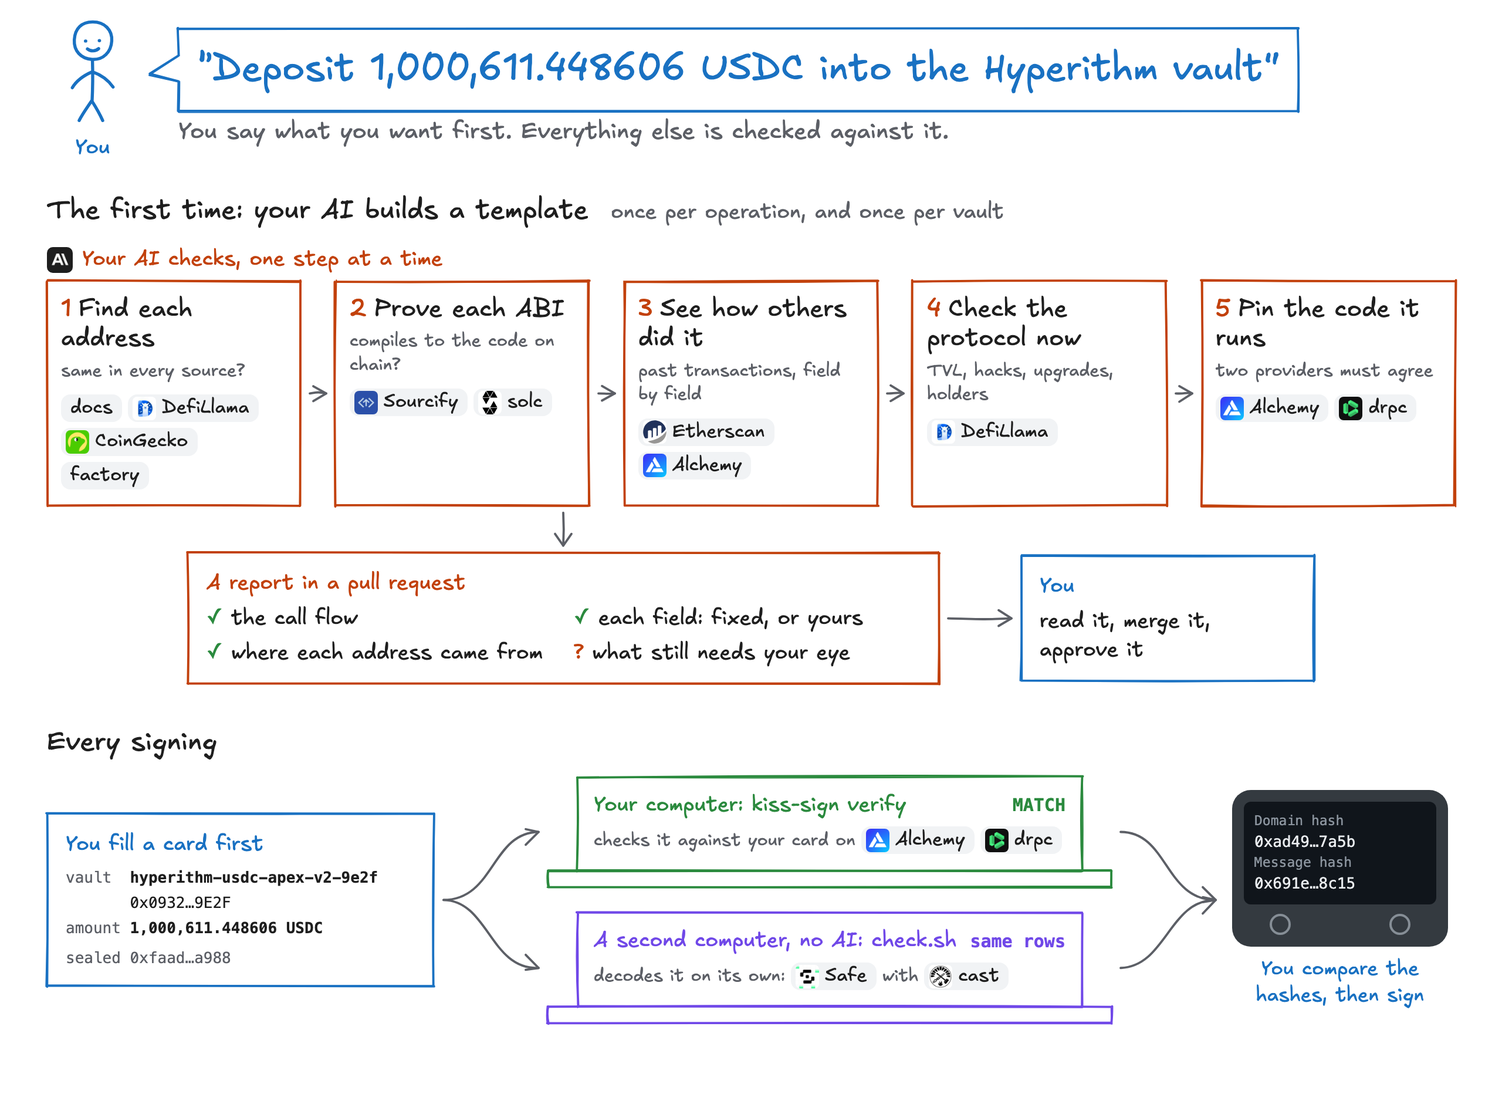
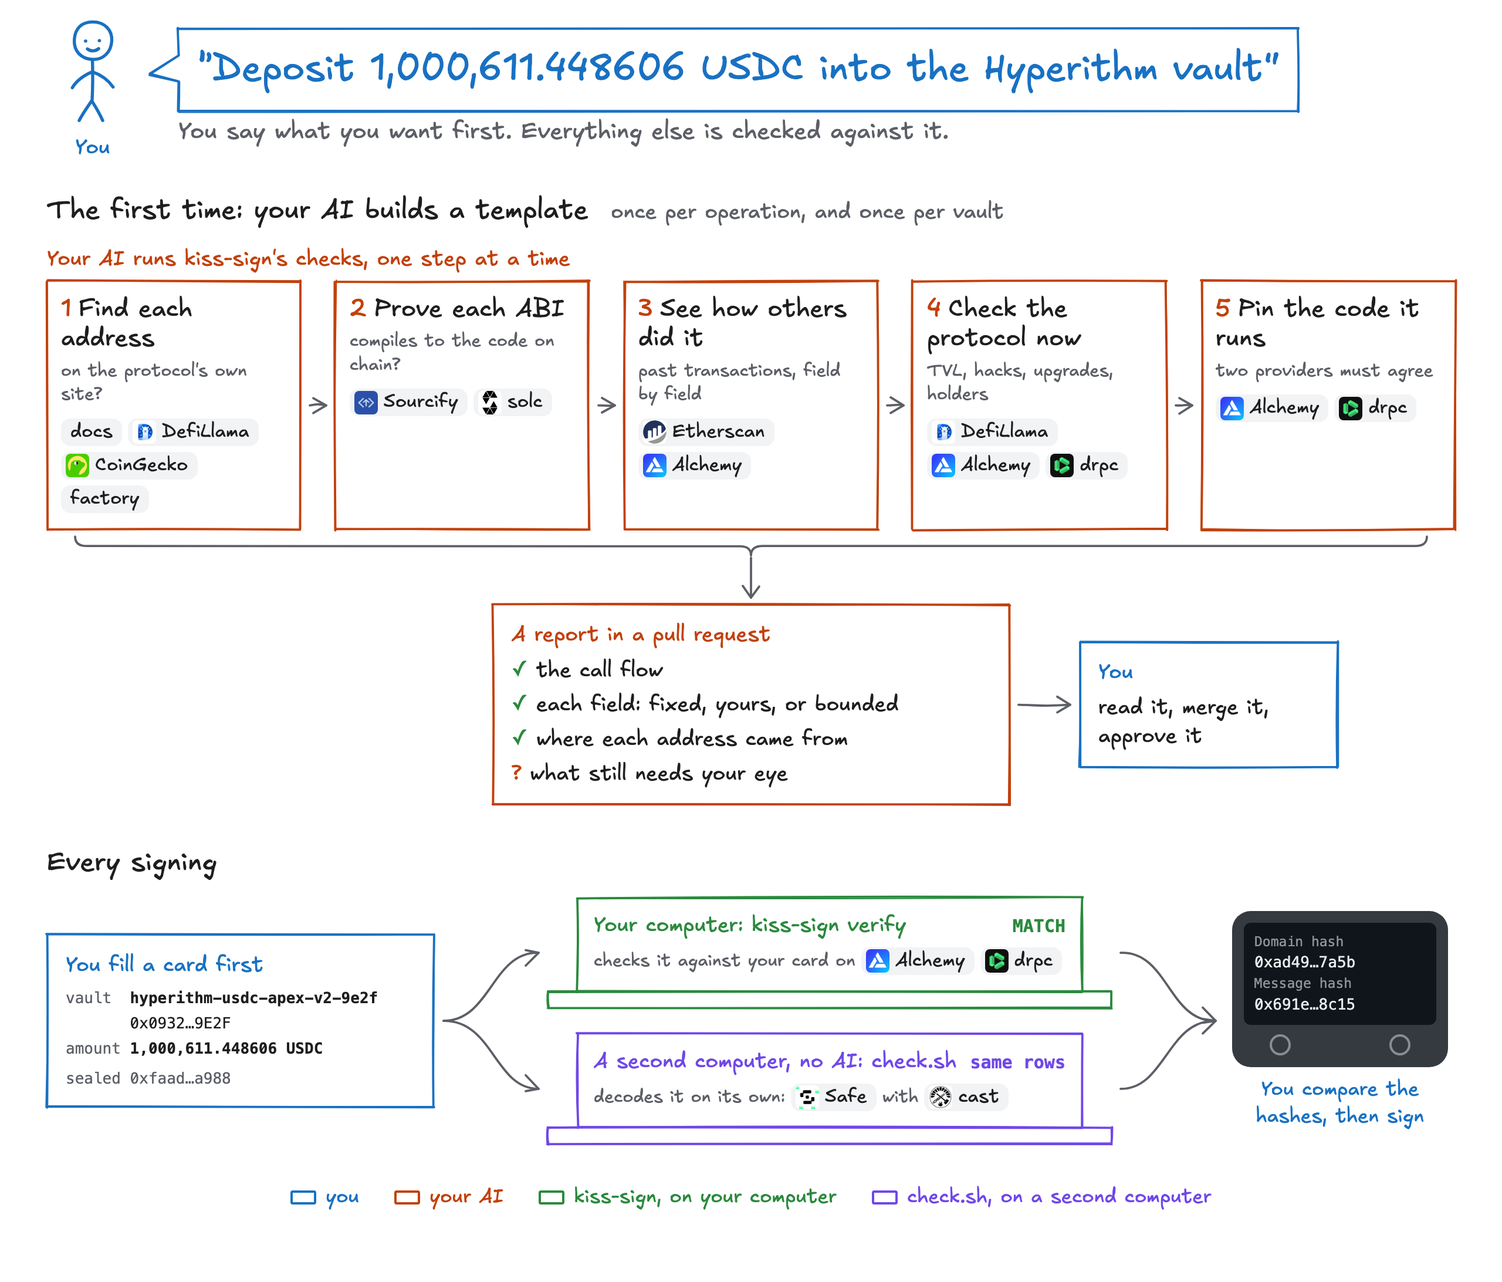
Fix the README claims the third reviews found and add a color legend; the report arrow leaves from under all five steps

diff --git a/docs/diagrams/readme-overview.html b/docs/diagrams/readme-overview.html
@@ -25,6 +25,9 @@
   .mono { font: 14px/1.5 ui-monospace, "SF Mono", Menlo, Consolas, monospace; }
   svg.sketch { position: absolute; left: 0; top: 0; pointer-events: none; overflow: visible; }
 
+  .legend { display: flex; gap: 30px; justify-content: center; margin-top: 34px; font-size: 17px; }
+  .legend span { display: flex; align-items: center; gap: 8px; color: var(--c); }
+  .legend i { width: 22px; height: 12px; border: 2px solid var(--c); border-radius: 2px; }
   .say { display: flex; align-items: center; gap: 34px; margin: 4px 0 26px; }
   .person { width: 78px; flex: none; text-align: center; color: var(--you); font-size: 18px; }
   .person svg { width: 72px; height: 94px; overflow: visible; }
@@ -50,15 +53,15 @@
   .step .t { font-size: 21px; line-height: 1.2; }
   .step .n { color: var(--ai); margin-right: 6px; }
   .step .logos { display: flex; gap: 5px; flex-wrap: wrap; margin-top: 6px; }
-  .then { display: flex; align-items: center; gap: 70px; margin: 40px 0 0 0; justify-content: center; }
+  .then { display: flex; align-items: center; gap: 60px; margin: 64px 0 0 0; padding-left: 380px; }
   .note { color: var(--muted); font-size: 15px; }
 
-  .report { width: 640px; }
-  .report ul { list-style: none; display: grid; grid-template-columns: 1fr 1fr; gap: 5px 18px; font-size: 18px; }
+  .report { width: 440px; }
+  .report ul { list-style: none; display: grid; grid-template-columns: 1fr; gap: 5px; font-size: 18px; }
   .report li::before { content: "✓ "; color: var(--prog); }
   .report li.q::before { content: "? "; color: var(--ai); }
 
-  .merge { width: 250px; font-size: 18px; }
+  .merge { width: 220px; font-size: 18px; }
 
   .card { width: 330px; }
   .card .mono { font-size: 13px; }
@@ -104,19 +107,19 @@
 
   <h2>The first time: your AI builds a template <b>once per operation, and once per vault</b></h2>
   <div class="chain ai" id="chain">
-    <div class="who"><img src="logos/anthropic.png" alt="">Your AI checks, one step at a time</div>
+    <div class="who">Your AI runs kiss-sign's checks, one step at a time</div>
     <div class="steps">
-      <div class="sk step" id="s1"><div class="t"><span class="n">1</span>Find each address</div><div class="note">same in every source?</div><div class="logos"><span class="lg plain">docs</span><span class="lg"><img src="logos/defillama.jpg" alt="">DefiLlama</span><span class="lg"><img src="logos/coingecko.png" alt="">CoinGecko</span><span class="lg plain">factory</span></div></div>
+      <div class="sk step" id="s1"><div class="t"><span class="n">1</span>Find each address</div><div class="note">on the protocol's own site?</div><div class="logos"><span class="lg plain">docs</span><span class="lg"><img src="logos/defillama.jpg" alt="">DefiLlama</span><span class="lg"><img src="logos/coingecko.png" alt="">CoinGecko</span><span class="lg plain">factory</span></div></div>
       <div class="sk step" id="s2"><div class="t"><span class="n">2</span>Prove each ABI</div><div class="note">compiles to the code on chain?</div><div class="logos"><span class="lg"><img src="logos/sourcify.jpg" alt="">Sourcify</span><span class="lg"><img class="mono-logo" src="logos/solidity.svg" alt="">solc</span></div></div>
       <div class="sk step" id="s3"><div class="t"><span class="n">3</span>See how others did it</div><div class="note">past transactions, field by field</div><div class="logos"><span class="lg"><img src="logos/etherscan.svg" alt="">Etherscan</span><span class="lg"><img src="logos/alchemy.png" alt="">Alchemy</span></div></div>
-      <div class="sk step" id="s4"><div class="t"><span class="n">4</span>Check the protocol now</div><div class="note">TVL, hacks, upgrades, holders</div><div class="logos"><span class="lg"><img src="logos/defillama.jpg" alt="">DefiLlama</span></div></div>
+      <div class="sk step" id="s4"><div class="t"><span class="n">4</span>Check the protocol now</div><div class="note">TVL, hacks, upgrades, holders</div><div class="logos"><span class="lg"><img src="logos/defillama.jpg" alt="">DefiLlama</span><span class="lg"><img src="logos/alchemy.png" alt="">Alchemy</span><span class="lg"><img src="logos/drpc.png" alt="">drpc</span></div></div>
       <div class="sk step" id="s5"><div class="t"><span class="n">5</span>Pin the code it runs</div><div class="note">two providers must agree</div><div class="logos"><span class="lg"><img src="logos/alchemy.png" alt="">Alchemy</span><span class="lg"><img src="logos/drpc.png" alt="">drpc</span></div></div>
     </div>
   </div>
   <div class="then">
     <div class="sk ai report" id="report">
       <div class="who">A report in a pull request</div>
-      <ul><li>the call flow</li><li>each field: fixed, or yours</li><li>where each address came from</li><li class="q">what still needs your eye</li></ul>
+      <ul><li>the call flow</li><li>each field: fixed, yours, or bounded</li><li>where each address came from</li><li class="q">what still needs your eye</li></ul>
     </div>
     <div class="sk you merge" id="merge">
       <div class="who">You</div>
@@ -148,6 +151,8 @@
       <p>You compare the hashes, then sign</p>
     </div>
   </div>
+
+  <div class="legend"><span class="you"><i></i>you</span><span class="ai"><i></i>your AI</span><span class="prog"><i></i>kiss-sign, on your computer</span><span class="ind"><i></i>check.sh, on a second computer</span></div>
 
 <script>
 Promise.all([document.fonts.ready, new Promise((ok) => (document.readyState === 'complete' ? ok() : addEventListener('load', ok)))]).then(() => {
@@ -189,14 +194,15 @@ Promise.all([document.fonts.ready, new Promise((ok) => (document.readyState === 
     const dy = (y2 - y1) * 0.08, s = 11;
     draw(`M${x2 - s} ${y2 - s * 0.6 - dy + rnd()} L${x2} ${y2} L${x2 - s} ${y2 + s * 0.6 - dy + rnd()}`, ink, 1.9);
   };
-  const down = (a, b) => {
-    const ra = document.getElementById(a).getBoundingClientRect(), rb = document.getElementById(b).getBoundingClientRect();
-    const x = rb.left + rb.width / 2 + scrollX, y1 = ra.bottom + 6 + scrollY, y2 = rb.top - 6 + scrollY;
-    draw(`M${x} ${y1} Q${x + rnd() * 4} ${(y1 + y2) / 2} ${x} ${y2}`, ink, 1.9);
-    draw(`M${x - 7} ${y2 - 10 + rnd()} L${x} ${y2} L${x + 7} ${y2 - 10 + rnd()}`, ink, 1.9);
-  };
   [['s1', 's2'], ['s2', 's3'], ['s3', 's4'], ['s4', 's5'], ['report', 'merge']].forEach(([a, b]) => arrow(a, b));
-  down('chain', 'report');
+  {
+    const steps = document.querySelector('.steps').getBoundingClientRect(), rb = document.getElementById('report').getBoundingClientRect();
+    const y = steps.bottom + 14 + scrollY, l = steps.left + 24 + scrollX, r = steps.right - 24 + scrollX, mid = (l + r) / 2;
+    draw(`M${l} ${y - 8} Q${l} ${y} ${l + 10} ${y} L${mid - 10} ${y + rnd()} Q${mid} ${y} ${mid} ${y + 8} Q${mid} ${y} ${mid + 10} ${y} L${r - 10} ${y + rnd()} Q${r} ${y} ${r} ${y - 8}`, ink, 1.9);
+    const x2 = rb.left + rb.width / 2 + scrollX, y2 = rb.top - 6 + scrollY;
+    draw(`M${mid} ${y + 10} C${mid} ${y + 30}, ${x2} ${y2 - 24}, ${x2} ${y2}`, ink, 1.9);
+    draw(`M${x2 - 7} ${y2 - 10 + rnd()} L${x2} ${y2} L${x2 + 7} ${y2 - 10 + rnd()}`, ink, 1.9);
+  }
   [ ['card', 'pc1'], ['card', 'pc2'], ['pc1', 'wallet'], ['pc2', 'wallet']].forEach(([a, b]) => arrow(a, b));
   document.body.dataset.height = Math.ceil(document.body.scrollHeight);
 });

diff --git a/README.md b/README.md
@@ -13,7 +13,7 @@ Signing tools today show you a transaction and ask whether it looks right. Your 
 
 <picture>
   <source media="(prefers-color-scheme: dark)" srcset="docs/readme/overview-dark.png">
-  <img src="docs/readme/overview.png" alt="kiss-sign at a glance. You say what you want. Once per operation, your AI checks the addresses, ABIs, past transactions, the protocol's state and the code it runs, one step at a time, writes a report, and you review and merge it. At every signing, you fill a card, kiss-sign verify checks the transaction against it on your computer, check.sh decodes the same transaction on a second computer, and you compare the hashes on your hardware wallet before signing.">
+  <img src="docs/readme/overview.png" alt="kiss-sign at a glance. You say what you want. Once per operation, your AI runs kiss-sign's checks on the addresses, ABIs, past transactions, the protocol's state and the code it runs, one step at a time, writes a report, and you review and merge it. At every signing, you fill a card, kiss-sign verify checks the transaction against it on your computer, check.sh decodes the same transaction on a second computer, and you compare the hashes on your hardware wallet before signing.">
 </picture>
 
 ## Contents
@@ -37,7 +37,7 @@ Signing tools today show you a transaction and ask whether it looks right. Your 
 ## Why
 
 - **You are responsible for the exact bytes you sign.** Today the transaction is built first and checked last. That last check is like the terms on an insurance form: everyone means to read it, and most people click sign. At Bybit in 2025, the signers saw a normal transfer in a tampered Safe web app and signed a change to the Safe itself.
-- **Checking by hand is slow and needs expertise.** Tools such as [safe-tx-hashes](https://github.com/pcaversaccio/safe-tx-hashes-util) compute the hashes your wallet should show, but the decoded method and parameters they print come from the Safe Transaction Service, and the tool itself warns: *"Always independently decode the transaction Data yourself before you sign!"* Decoding one real Morpho vault deposit yourself (another Safe's, not the one pictured below) looks like this:
+- **Checking by hand is slow and needs expertise.** Tools such as [safe-tx-hashes](https://github.com/pcaversaccio/safe-tx-hashes-util) compute the hashes your wallet should show, but the decoded method and parameters they print come from the Safe Transaction Service, and the tool itself warns: *"Always independently decode the transaction "Data" yourself before you sign!"* Decoding one real Morpho vault deposit yourself (another Safe's, not the one pictured below) looks like this:
 
   ```sh
   # 1. The Safe calls MultiSend. Its one argument is packed bytes, not ABI.
@@ -71,7 +71,7 @@ Signing tools today show you a transaction and ask whether it looks right. Your 
 
   Then the real questions start. Is `0x4A6c…0aE0` Morpho's GeneralAdapter1 or a look-alike? Is `0x7777…7777` the vault you meant? Is `1.054e15` a sane minimum of shares for 10,001 USDC? What are the 8 extra bytes after the approve? And you do all of this again for the next transaction.
 
-- **[Clear signing (ERC-7730)](https://eips.ethereum.org/EIPS/eip-7730) does not decode batched calls well yet.** It turns a call into readable fields, but only for contracts with a descriptor. For the deposit above, at [registry](https://github.com/ethereum/clear-signing-erc7730-registry) commit [`3bebbd0`](https://github.com/ethereum/clear-signing-erc7730-registry/tree/3bebbd05cbc2d2d2bf9c41a8edbf5e5cc88e4eb4), only Bundler3 has one. It names the call "Bundler3 Multicall" and passes each inner action to the descriptor of its target. MultiSend, GeneralAdapter1 and the vault have none. The screen can look reasonable while the parts that move your money are not shown.
+- **[Clear signing (ERC-7730)](https://eips.ethereum.org/EIPS/eip-7730) does not decode batched calls well yet.** It turns a call into readable fields, but only for contracts with a descriptor. For the deposit above, at [registry](https://github.com/ethereum/clear-signing-erc7730-registry) commit [`3bebbd0`](https://github.com/ethereum/clear-signing-erc7730-registry/tree/3bebbd05cbc2d2d2bf9c41a8edbf5e5cc88e4eb4), only Bundler3 has one. It names the call "Bundler3 Multicall" and passes each inner action to the descriptor of its target. MultiSend, USDC, GeneralAdapter1 and the vault have none. The screen can look reasonable while the parts that move your money are not shown.
 
 ## How it works
 
@@ -92,7 +92,9 @@ pnpm kiss-sign key add etherscan   # only to build templates
 
 You need Node 22.21 or later, pnpm, free [Alchemy](https://dashboard.alchemy.com/) and [Etherscan](https://etherscan.io/myapikey) keys, and a hardware wallet that shows a Safe transaction's domain hash and message hash. The second computer needs [kiss-sign-check](https://github.com/ipromise2324/kiss-sign-check).
 
-Turn on branch protection for your fork's `main`, so that a pull request needs your approval, and let your AI push from a GitHub account that cannot approve or merge. Until you do, nothing on GitHub stops an AI that can push from merging. On a private repository, GitHub offers branch protection only on a paid plan.
+kiss-sign has two tiers. The basic tier is kiss-sign alone, on your computer. The hardened tier adds `check.sh` on a second computer that runs no AI and no kiss-sign, so malware or an AI on your computer cannot also change what you compare. See [Two tiers](docs/design.md#two-tiers).
+
+Turn on branch protection for your fork's `main`, so that a pull request needs your approval, and let your AI push from a GitHub account that cannot approve or merge. Until you do, nothing on GitHub stops an AI that can push from merging.
 
 ### 1. Tell your AI what you want
 
@@ -106,7 +108,7 @@ The report shows what the transaction will do and where every fact came from. Te
 
 ![The call flow in the report: the Safe approves USDC to general-adapter-1, then calls bundler3.multicall, which pulls the USDC and deposits it, and the vault shares come back to the Safe](docs/readme/report-flow.png)
 
-**Every field.** Each argument is either fixed by the template or filled from your card.
+**Every field.** Each argument is fixed by the template, filled from your card, or, like a deadline or a route, left to the protocol's app within limits the template states.
 
 ![The fields of usdc.approve in the report: spender is fixed to general-adapter-1 with its full address, and value is the amount you fill in](docs/readme/report-fields.png)
 
@@ -118,18 +120,18 @@ Weak evidence is shown, not hidden. The Hyperithm vault was confirmed only by it
 
 ![An address confirmed in only one place, flagged with low confidence](docs/readme/report-address-flagged.png)
 
-Merging is your confirmation. Then approve the template on your own computer, which records its hash so `verify` refuses any other version:
+This review happens once per operation, and once per vault. Merging is your confirmation. Then approve the template on your own computer, which records its hash so `verify` refuses any other version:
 
 ```sh
 git pull
 pnpm kiss-sign template approve morpho/vault-deposit
 ```
 
-This happens once per operation, or once per vault.
+Approval records the template's hash, so a new vault for an approved template needs only its report reviewed and merged.
 
 ### 3. Fill a card
 
-In your own terminal, pick the vault from a list with full addresses and type the amount. Values the protocol's app fills in by itself, such as the minimum shares, are computed from an on-chain read and the app's default slippage. The card is sealed under its hash before you see any transaction.
+In your own terminal, pick the vault from a list with full addresses and type the amount. Values the protocol's app fills in by itself, such as the minimum shares, are computed from an on-chain read, the app's default slippage and a small margin the template states (0.10% in all for a Morpho deposit). The card is sealed under its hash before you see any transaction.
 
 ![pnpm kiss-sign card new morpho/vault-deposit: the vault is picked by name, the amount typed in whole tokens, the minimum shares computed from previewDeposit at a block where Alchemy and drpc agree, and the card sealed](docs/readme/card-new.png)
 
@@ -153,9 +155,10 @@ The report and both pages are in Traditional Chinese. The terminal, the code and
 
 ### Add your own operation
 
-The templates in [`templates/`](templates/) are examples, from ETH transfers to Morpho deposits and Uniswap swaps, and were written by an AI. Read each one's report before you approve it, as you would your own AI's. kiss-sign is meant to grow with what you sign: tell your AI what you want, as in step 1, and review its pull request. Before merging, read the report's facts again live:
+The templates in [`templates/`](templates/) are examples, from ETH transfers to Morpho deposits and Uniswap swaps, and were written by an AI. Read each one's report before you approve it, as you would your own AI's. kiss-sign is meant to grow with what you sign: tell your AI what you want, as in step 1, and review its pull request. Before merging, read the report's facts again live, from a clone of your `main`, so the pull request cannot change the check that reads it (this needs the Alchemy key):
 
 ```sh
+git fetch origin <branch>
 pnpm report <protocol>/<operation> [--vault-of <vault>] --compare --data origin/<branch>
 ```
 
@@ -187,31 +190,33 @@ Some changes move no balance kiss-sign measures, such as an NFT `setApprovalForA
 
 When a template is built:
 
-- **Addresses come from the protocol's own site.** `check-sources` reads each source page without scripts and looks for the address next to its label. It compares the page's domain, found with the Public Suffix List, with the protocol's website on DefiLlama, or a GitHub source's organization with the protocol's GitHub organizations, and checks that a GitHub source is pinned to a commit on the default branch. For tokens and vaults, it checks that CoinGecko lists the coin at that address. A vault's factory is asked on chain whether it created the vault. Each check prints PASS or FINDING in the report for you to judge; none blocks a merge.
-- **ABIs are proven by compiling.** The verified source from Sourcify is compiled locally with a pinned `solc` and must match the code on chain.
+- **Each address is checked against the protocol's own site.** `check-sources` reads each source page without scripts and looks for the address next to its label. It compares the page's domain, found with the Public Suffix List, with the protocol's website on DefiLlama, or a GitHub source's organization with the protocol's GitHub organizations, and checks that a GitHub source is pinned to a commit on the default branch. For tokens and vaults, it checks that CoinGecko lists the coin at that address. A vault's factory is asked on chain whether it created the vault. Each check prints PASS or FINDING in the report for you to judge; none blocks a merge.
+- **ABIs are proven by compiling.** The verified source from Sourcify is compiled locally with a pinned `solc` and must match the code on chain. A contract reached only through another, or one that routes calls by selector, is not proved this way; the report says so and checks its code pin instead.
+- **The protocol's facts are read.** DefiLlama's TVL, listing date and past hacks, and for a vault its size over a year and its share holders, read through both providers.
+- **Code is pinned.** Each registry contract's code, and behind a proxy its implementation, is read through both providers at one block and recorded, with every past change of that code.
 - **Rules are measured against history.** The AI writes a rule such as "`receiver` equals the Safe", and `past-txs` counts how many past deposits, by Safes and other senders, held it.
-- **Free fields are perturbed.** Each field the template leaves free is changed to a few other values and simulated. Each change must revert, be refused, or change nothing the template does not allow.
+- **Free fields are perturbed.** Fields the template leaves free are changed to a few other values each and simulated on a past transaction. Each change must revert, be refused, or change nothing the template does not allow. Empty bytes and arrays, and the members of a signed order, are not perturbed.
 
 At every signing:
 
-- **The program checks itself first.** Your clone must equal your fork's `main` byte for byte.
+- **The program checks itself first.** Every tracked file in your clone must equal your fork's `main`. Ignored folders, such as `node_modules/` and `vendor/`, are not compared.
 - **Every hash is recomputed.** Nothing from the Safe web app or its API is trusted.
 - **Decode, then re-encode byte for byte.** No hidden bytes beyond what the template allows and explains.
-- **Floor rules for every template.** No unlimited approval, except where a reviewed registry entry declares a standing allowance, as Uniswap's Permit2 does. No `delegatecall` except to the official MultiSend. No change to the Safe's modules, guard, fallback handler or implementation. An owner or threshold change passes only exactly as the card declares it, one per transaction. No gas refund.
+- **Floor rules for every template.** No unlimited (max-value) approval, except where a reviewed registry entry declares a standing allowance, as Uniswap's Permit2 does. No `delegatecall` except to the official MultiSend. No change to the Safe's modules, guard, fallback handler or implementation. An owner or threshold change passes only exactly as the card declares it, one per transaction. No gas refund.
 - **Simulation on two providers.** Every change to the Safe's balances and allowances must be one the template and your card explain.
 - **Code pins.** Every registry contract the transaction touches must run the code pinned for it.
 
-Your Safe's address stays in `~/.kiss-sign/` and never enters the repository. A pre-push hook refuses any push that contains it or an API key.
+Your Safe's address stays in `~/.kiss-sign/` and never enters the repository. A pre-push hook refuses any push that contains it, an API key from your `~/.kiss-sign/.env`, or a string you list in `~/.kiss-sign/push-deny`.
 
 [docs/design.md](docs/design.md) is the source of truth for every check.
 
 ## Scope
 
-Safe multisig transactions on Ethereum mainnet. Not EOAs, off-chain signatures or other chains.
+Safe multisig transactions on Ethereum mainnet. Not EOAs, Safe off-chain messages (`signMessage`) or other chains. A CoW order, which the transaction names by its digest, is read and checked.
 
 ## Contributing
 
-Open an issue or a pull request. `pnpm test` downloads the pinned compilers and lists it needs once, then runs offline. For a program change, change `docs/design.md` first.
+Open an issue or a pull request. `pnpm test` downloads the pinned `solc` compilers and the Public Suffix List once, then runs offline. For a program change, change `docs/design.md` first.
 
 Report security problems as an issue too.
 
@@ -233,4 +238,4 @@ Copy the address from this page on GitHub, and compare it in full before you sen
 
 ## License
 
-[MIT](LICENSE). Anyone may use, copy, change, publish and sell kiss-sign, provided the license notice stays with it. The diagram font in `docs/diagrams/fonts/` is Excalifont, under the SIL Open Font License, and the logos in `docs/diagrams/logos/` belong to their owners.
+[MIT](LICENSE). Anyone may use, copy, change, publish and sell kiss-sign, provided the license notice stays with it. The diagram font in `docs/diagrams/fonts/` is Excalifont, under the SIL Open Font License, and the logos in `docs/diagrams/logos/`, also drawn into `docs/readme/overview.png` and `overview-dark.png`, belong to their owners and are not under MIT.
